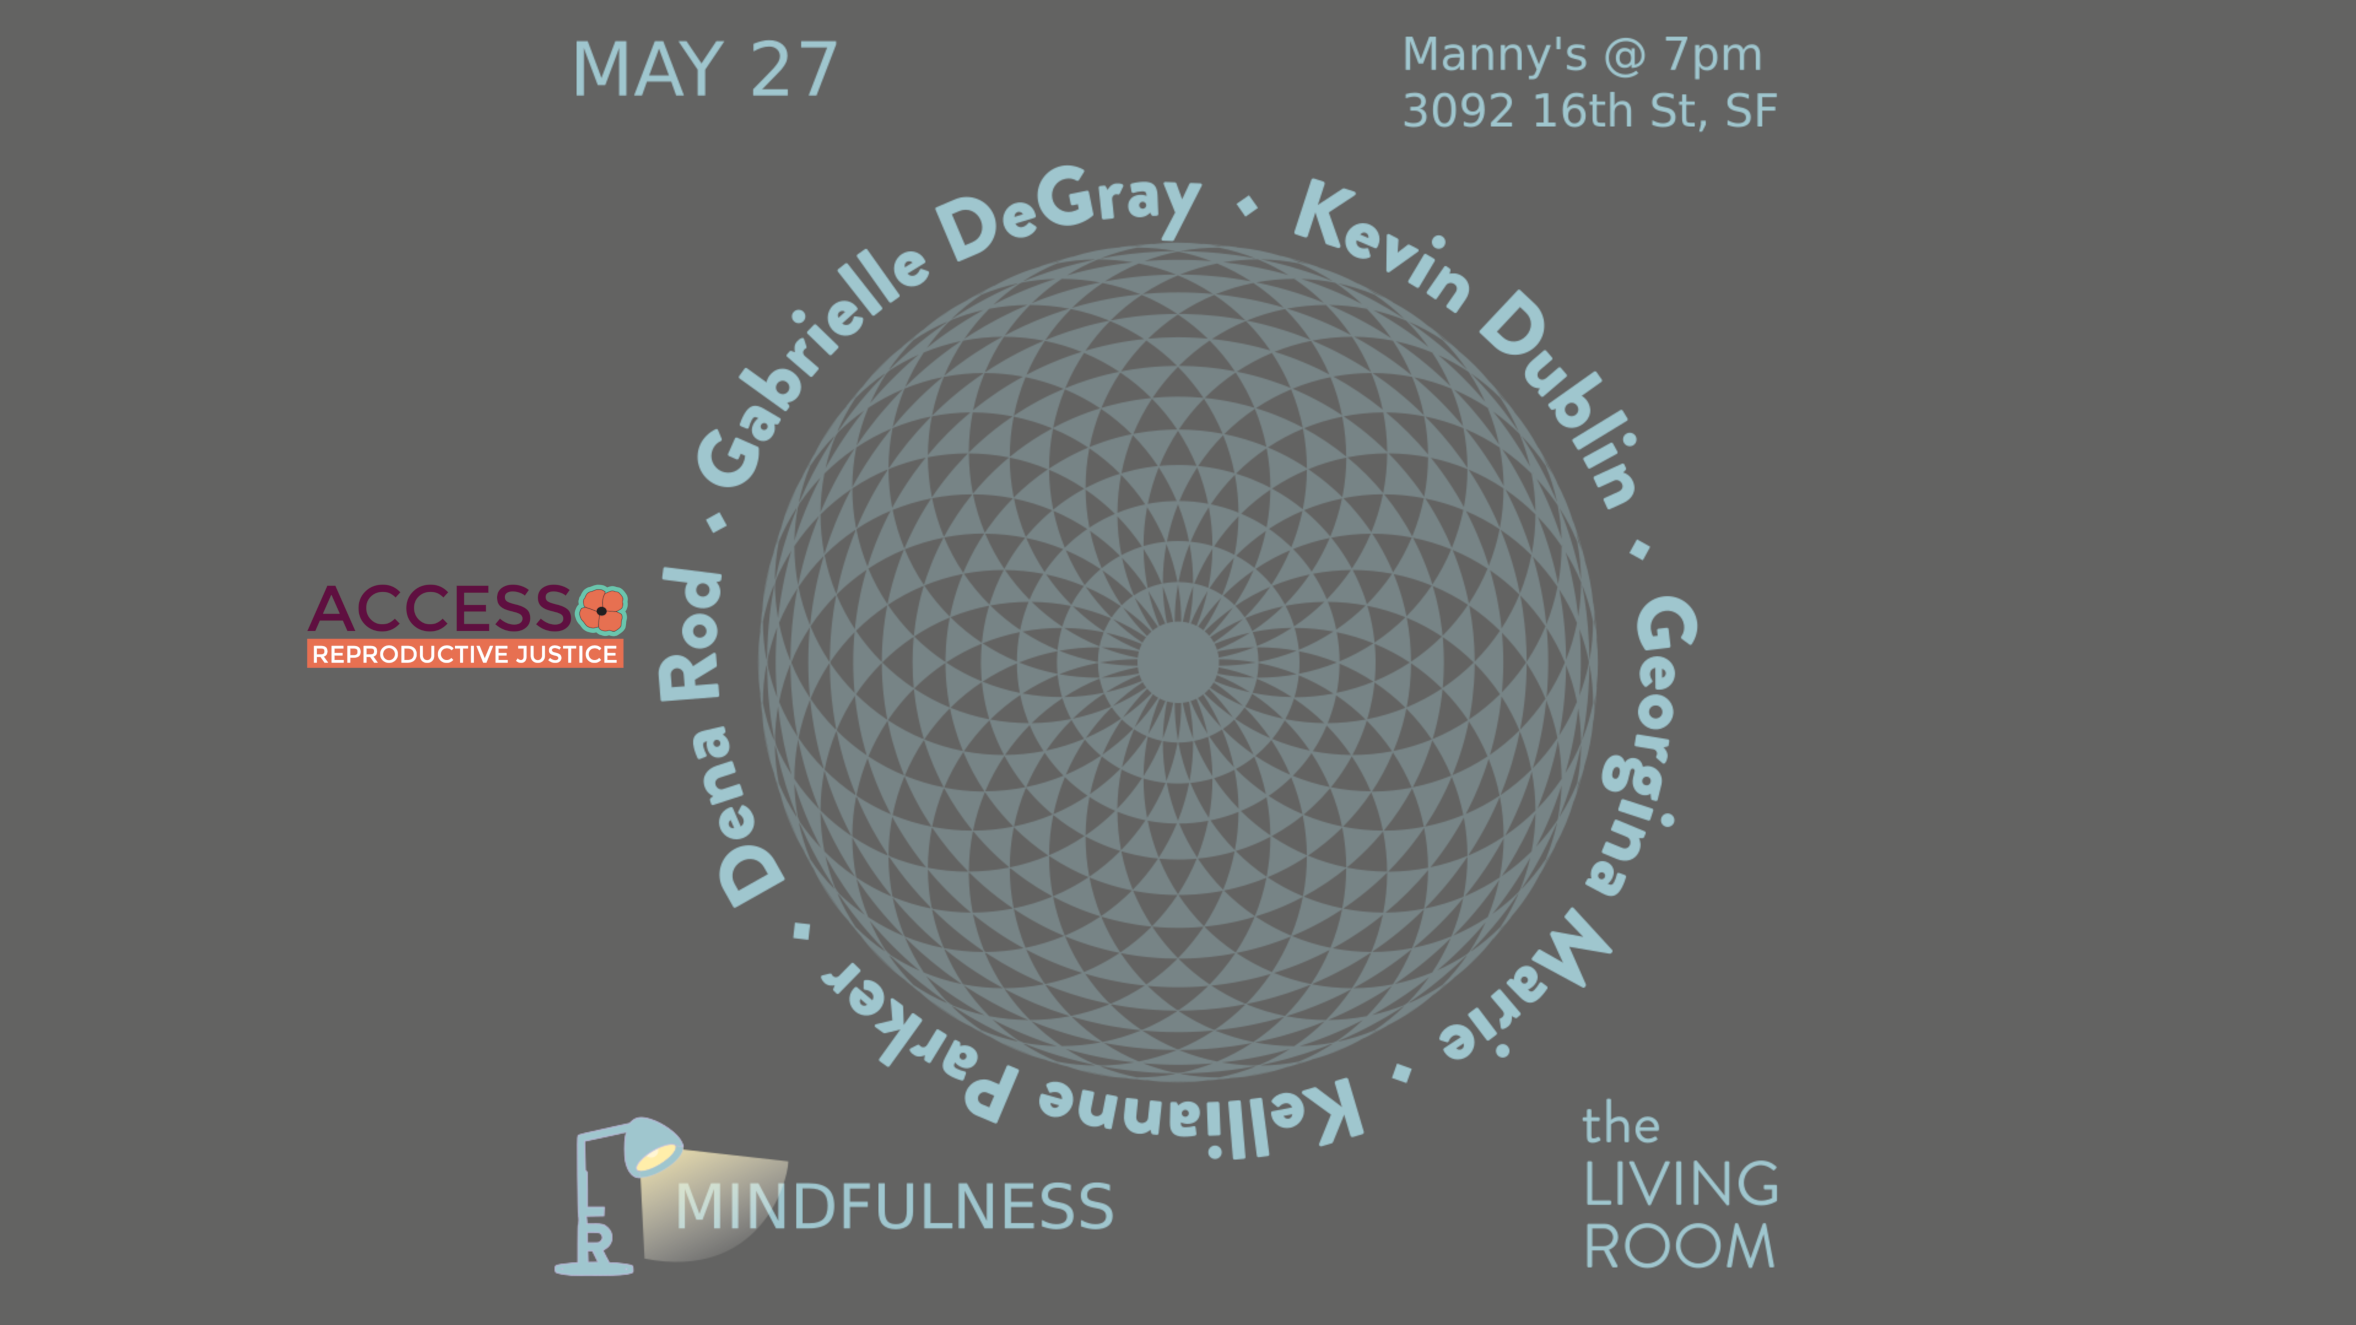
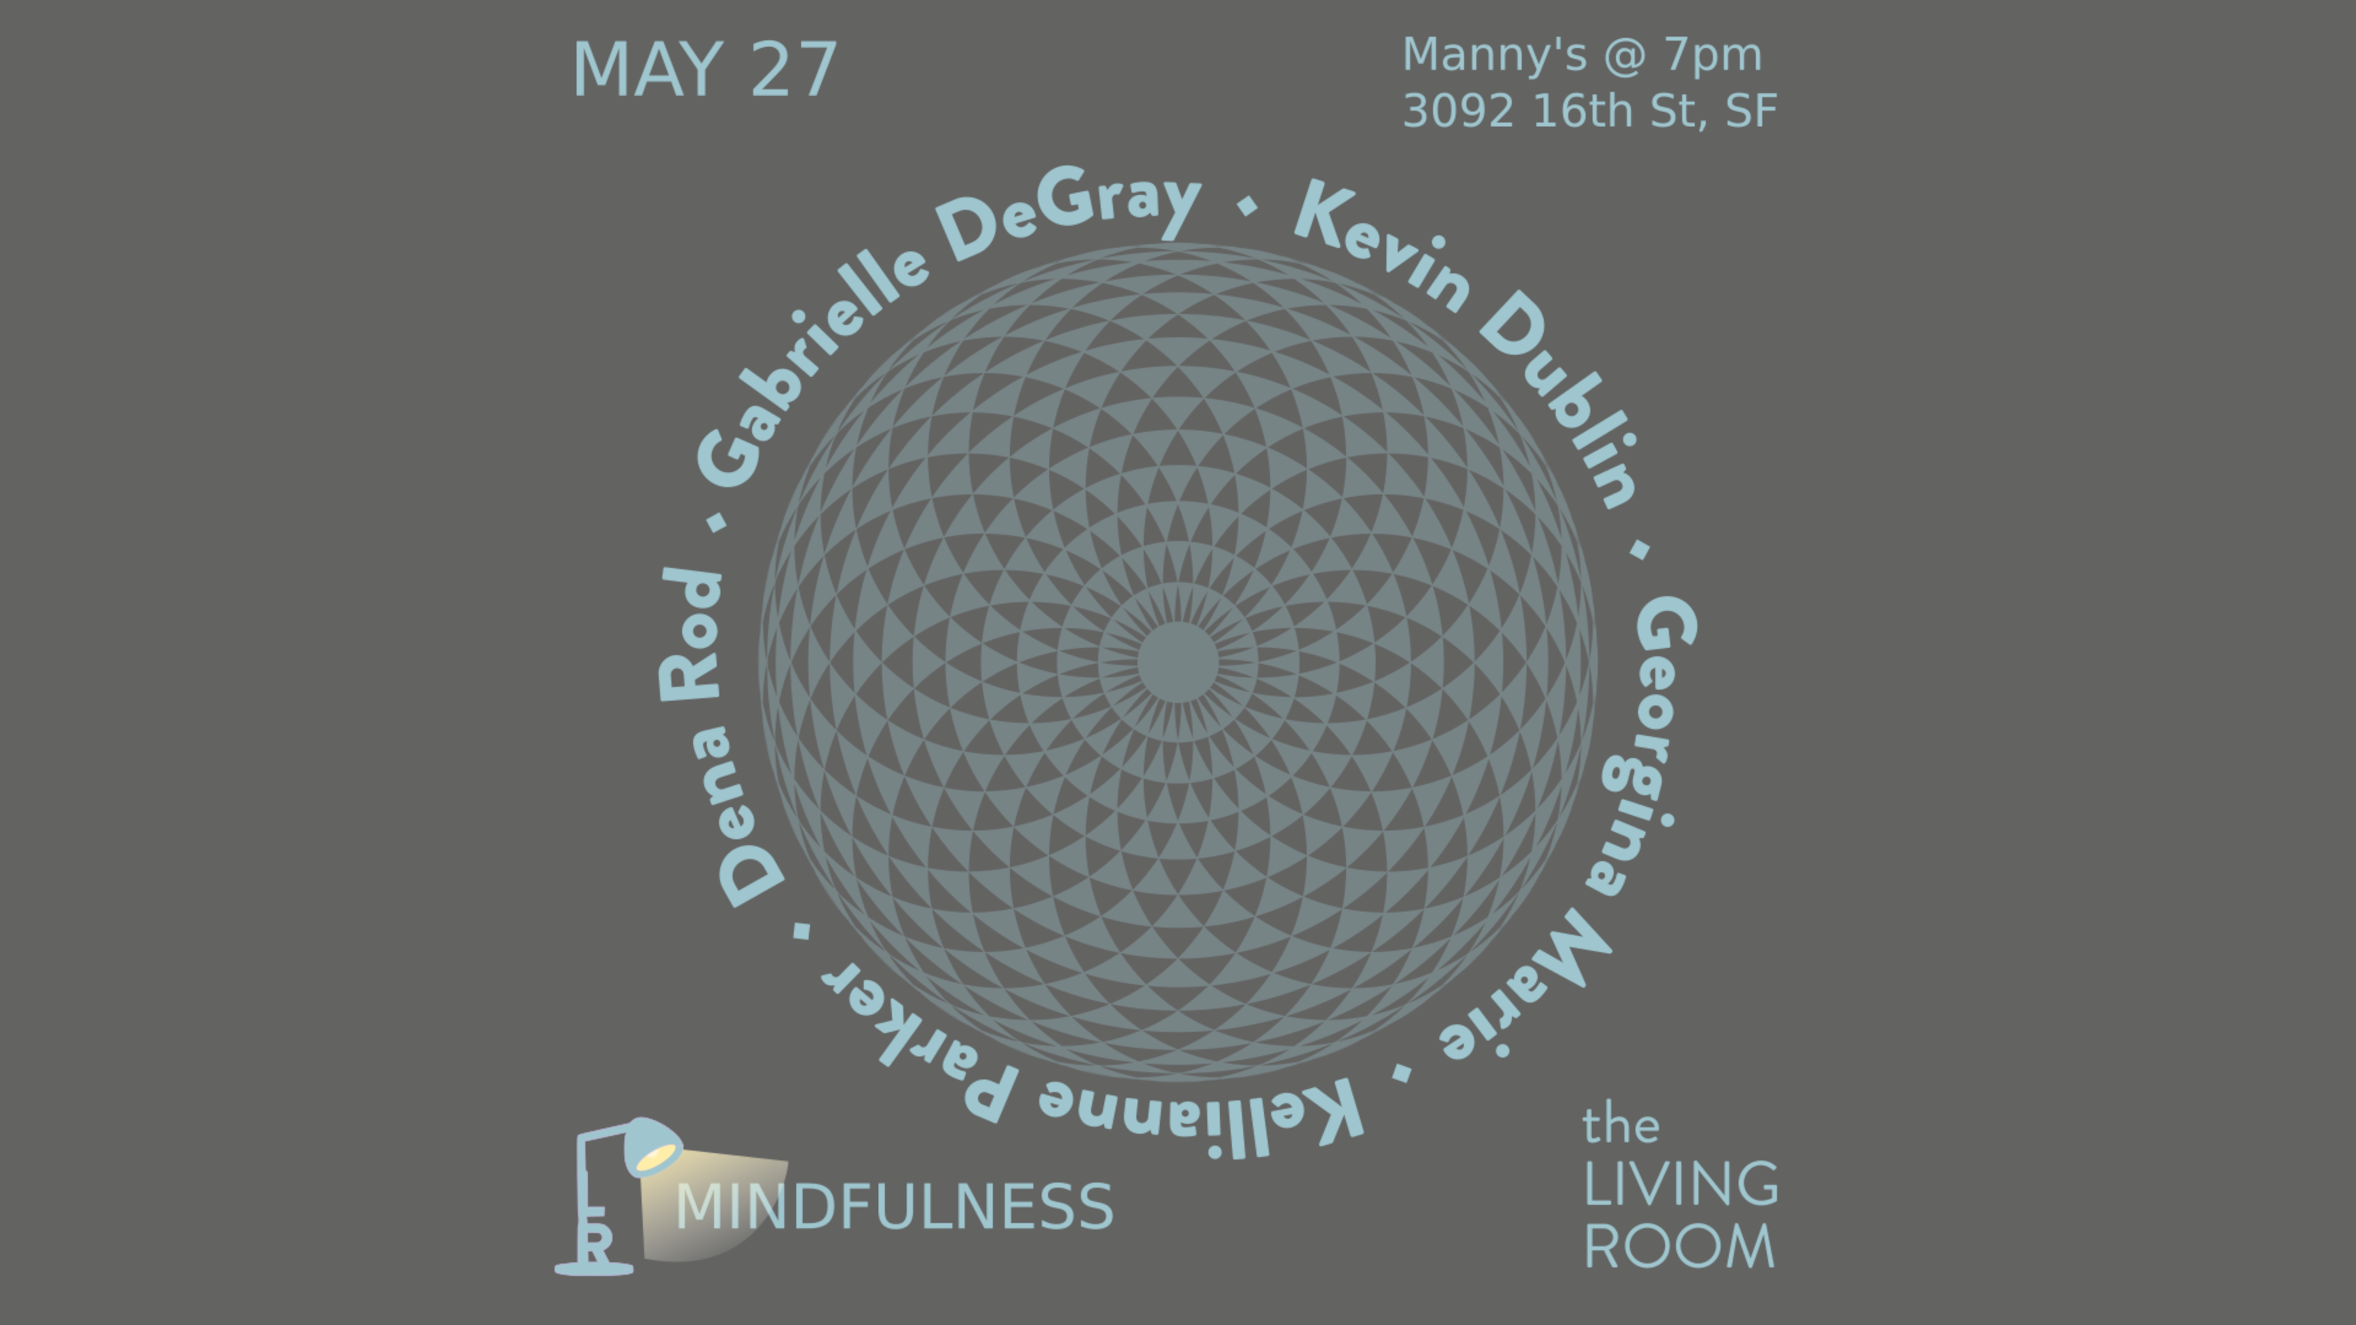
Update documentation

Changed region(s): [[0.1239, 0.4332, 0.2789, 0.526]]

diff --git a/events/2022-may.html b/events/2022-may.html
@@ -40,7 +40,7 @@
 
     <link href="https://thelivingroomsf.com/events/2022-may.html" rel="canonical" />
 
-        <meta name="description" content="The May 2022 show theme is "Mindfulness," the community partner is Access Reproductive Justice, and the featured writers are: Gabrielle...">
+        <meta name="description" content="The May 2022 show theme is "Mindfulness," and the featured writers are: Gabrielle DeGray, Kevin Dublin, Georgina Marie Guardado,...">
 
         <meta name="author" content="Kevin Dublin">
 
@@ -58,7 +58,7 @@
   <meta property="og:url" content="https://thelivingroomsf.com/events/2022-may.html">
   <meta property="og:title" content="May Show: Mindfulness">
   <meta property="article:published_time" content="2022-05-27 00:00:00-07:00">
-            <meta property="og:description" content="The May 2022 show theme is "Mindfulness," the community partner is Access Reproductive Justice, and the featured writers are: Gabrielle...">
+            <meta property="og:description" content="The May 2022 show theme is "Mindfulness," and the featured writers are: Gabrielle DeGray, Kevin Dublin, Georgina Marie Guardado,...">
 
             <meta property="og:image" content="https://thelivingroomsf.com/../static/images/header-mindfulness.png">
         <meta name="twitter:card" content="summary_large_image">
@@ -68,7 +68,7 @@
 
             <meta name="twitter:image:src" content="https://thelivingroomsf.com/../static/images/header-mindfulness.png">
 
-            <meta name="twitter:description" content="The May 2022 show theme is "Mindfulness," the community partner is Access Reproductive Justice, and the featured writers are: Gabrielle...">
+            <meta name="twitter:description" content="The May 2022 show theme is "Mindfulness," and the featured writers are: Gabrielle DeGray, Kevin Dublin, Georgina Marie Guardado,...">
 </head>
 <!-- TODO : Body class -->
 <body class="home-template">
@@ -136,10 +136,8 @@
 <strong><a href="https://georginamariepoet.com">Georgina Marie</a></strong> is the Lake County Poet Laureate for 2020-2024, &amp; a Poets Laureate Fellow with The Academy of American Poets. She has received support from the Mendocino Coast &amp; Napa Valley Writers’ Conferences. Her work has appeared in <em>The Bloom</em>, <em>Noyo Review</em>, &amp; <em>Poets.org</em>, and is forthcoming in <em>Gulf Coast</em>, <em>Colossus:Freedom</em>, and <em>Yellow Medicine Review</em>. </p>
 <p><img alt="photo of Kelliane Parker" src="../static/images/kelliane-parker.jpg">
 <strong><a href="https://kellianeparkerpoetry.com/">Kelliane Parker</a></strong> is a queer, Latinx street poet, living with Dissociative Identity Disorder and the author of <em>Down the Foggy Streets of my Mind</em>, <a href="https://www.nomadicpress.org/store/p/downthefoggystreetsofmymind">from Nomadic Press</a>.</p>
-<p><img alt="photo of Paige Prevost" src="../static/images/dena-rod.jpg">
+<p><img alt="photo of Dena Rod" src="../static/images/dena-rod.jpg">
 <strong><a href="https://www.denarod.com/">Dena Rod</a></strong> is a trans non-binary poet whose work has been widely published and highlighted in <em>My Shadow is My Skin: Voices from the Iranian Diaspora</em>, <em>The Rumpus</em>, and more. Described by <em>The Bold Italic</em> as a “verbose advocate,” their debut poetry collection, <em>Scattered Arils</em> is now in its third printing from <a href="https://milkandcakepress.com/product/scattered-arils-by-dena-rod/">Milk and Cake Press</a>. Rod’s literary endeavors include curating poetry showcases, speaking on panels, and visiting classrooms for community engagement with a focus on queer and trans Iranian diaspora issues. Connect with Dena at their website, denarod.com</p>
-<p><img alt="Access Reproductive Justice" src="../static/images/access-rj.png">
-Community Partner: <strong><a href="https://accessrj.org/about-access-rj/">Access Reproductive Justice</a></strong> removes barriers to sexual and reproductive Health care and builds the power of Californians to demand health, justice, and dignity.</p>
             </section>
 
             <section class="post-info">

diff --git a/partners/index.html b/partners/index.html
@@ -101,8 +101,6 @@
 <p>Community Partner: The <a href="https://www.cityofdreams.org/"><strong>City of Dreams</strong> Mentoring Program</a> helps San Francisco Youth who live in public housing, ages 8-24, discover and achieve their potential by offering them experiences and mentorship.</p>
 <p><img src="../static/images/esteen4ca-logo.png" alt="Jennifer Esteen Logo" height="150"/></p>
 <p>Community Partner: Progressive California AD candidate <strong><a href="https://www.jenniferesteen.com/">Jennifer Esteen</a></strong>. Jennifer is a nurse, mother, and trustee of Alameda Health Systems, and has already helped usher legislation into existence. She knows firsthand the struggles that our families and communities face and will work tirelessly to ensure corporations and special interests pay their fair share, so everyone has access to housing they can afford, healthcare they deserve, and a quality education.</p>
-<p><img src="../static/images/access-rj.png" alt="Access Reproductive Justice Logo" height="150"/></p>
-<p>Community Partner: <strong><a href="https://accessrj.org/about-access-rj/">Access Reproductive Justice</a></strong> removes barriers to sexual and reproductive Health care and builds the power of Californians to demand health, justice, and dignity.</p>
           </section>
       </div>
       </article>

diff --git a/events/category/events.html b/events/category/events.html
@@ -114,7 +114,7 @@
             </header>
                 <section class="post-excerpt">
                     <p>
-                        The May 2022 show theme is "Mindfulness," the community partner is Access Reproductive Justice, and the featured writers are: Gabrielle DeGray, Kevin Dublin, Georgina Marie Guardado, Kelliane Parker, & Dena Rod.
+                        The May 2022 show theme is "Mindfulness," and the featured writers are: Gabrielle DeGray, Kevin Dublin, Georgina Marie Guardado, Kelliane Parker, & Dena Rod.
                     </p>
                 </section>
             </div>

diff --git a/index.html b/index.html
@@ -112,7 +112,7 @@
             </header>
                 <section class="post-excerpt">
                     <p>
-                        The May 2022 show theme is "Mindfulness," the community partner is Access Reproductive Justice, and the featured writers are: Gabrielle DeGray, Kevin Dublin, Georgina Marie Guardado, Kelliane Parker, & Dena Rod.
+                        The May 2022 show theme is "Mindfulness," and the featured writers are: Gabrielle DeGray, Kevin Dublin, Georgina Marie Guardado, Kelliane Parker, & Dena Rod.
                     </p>
                 </section>
             </div>
